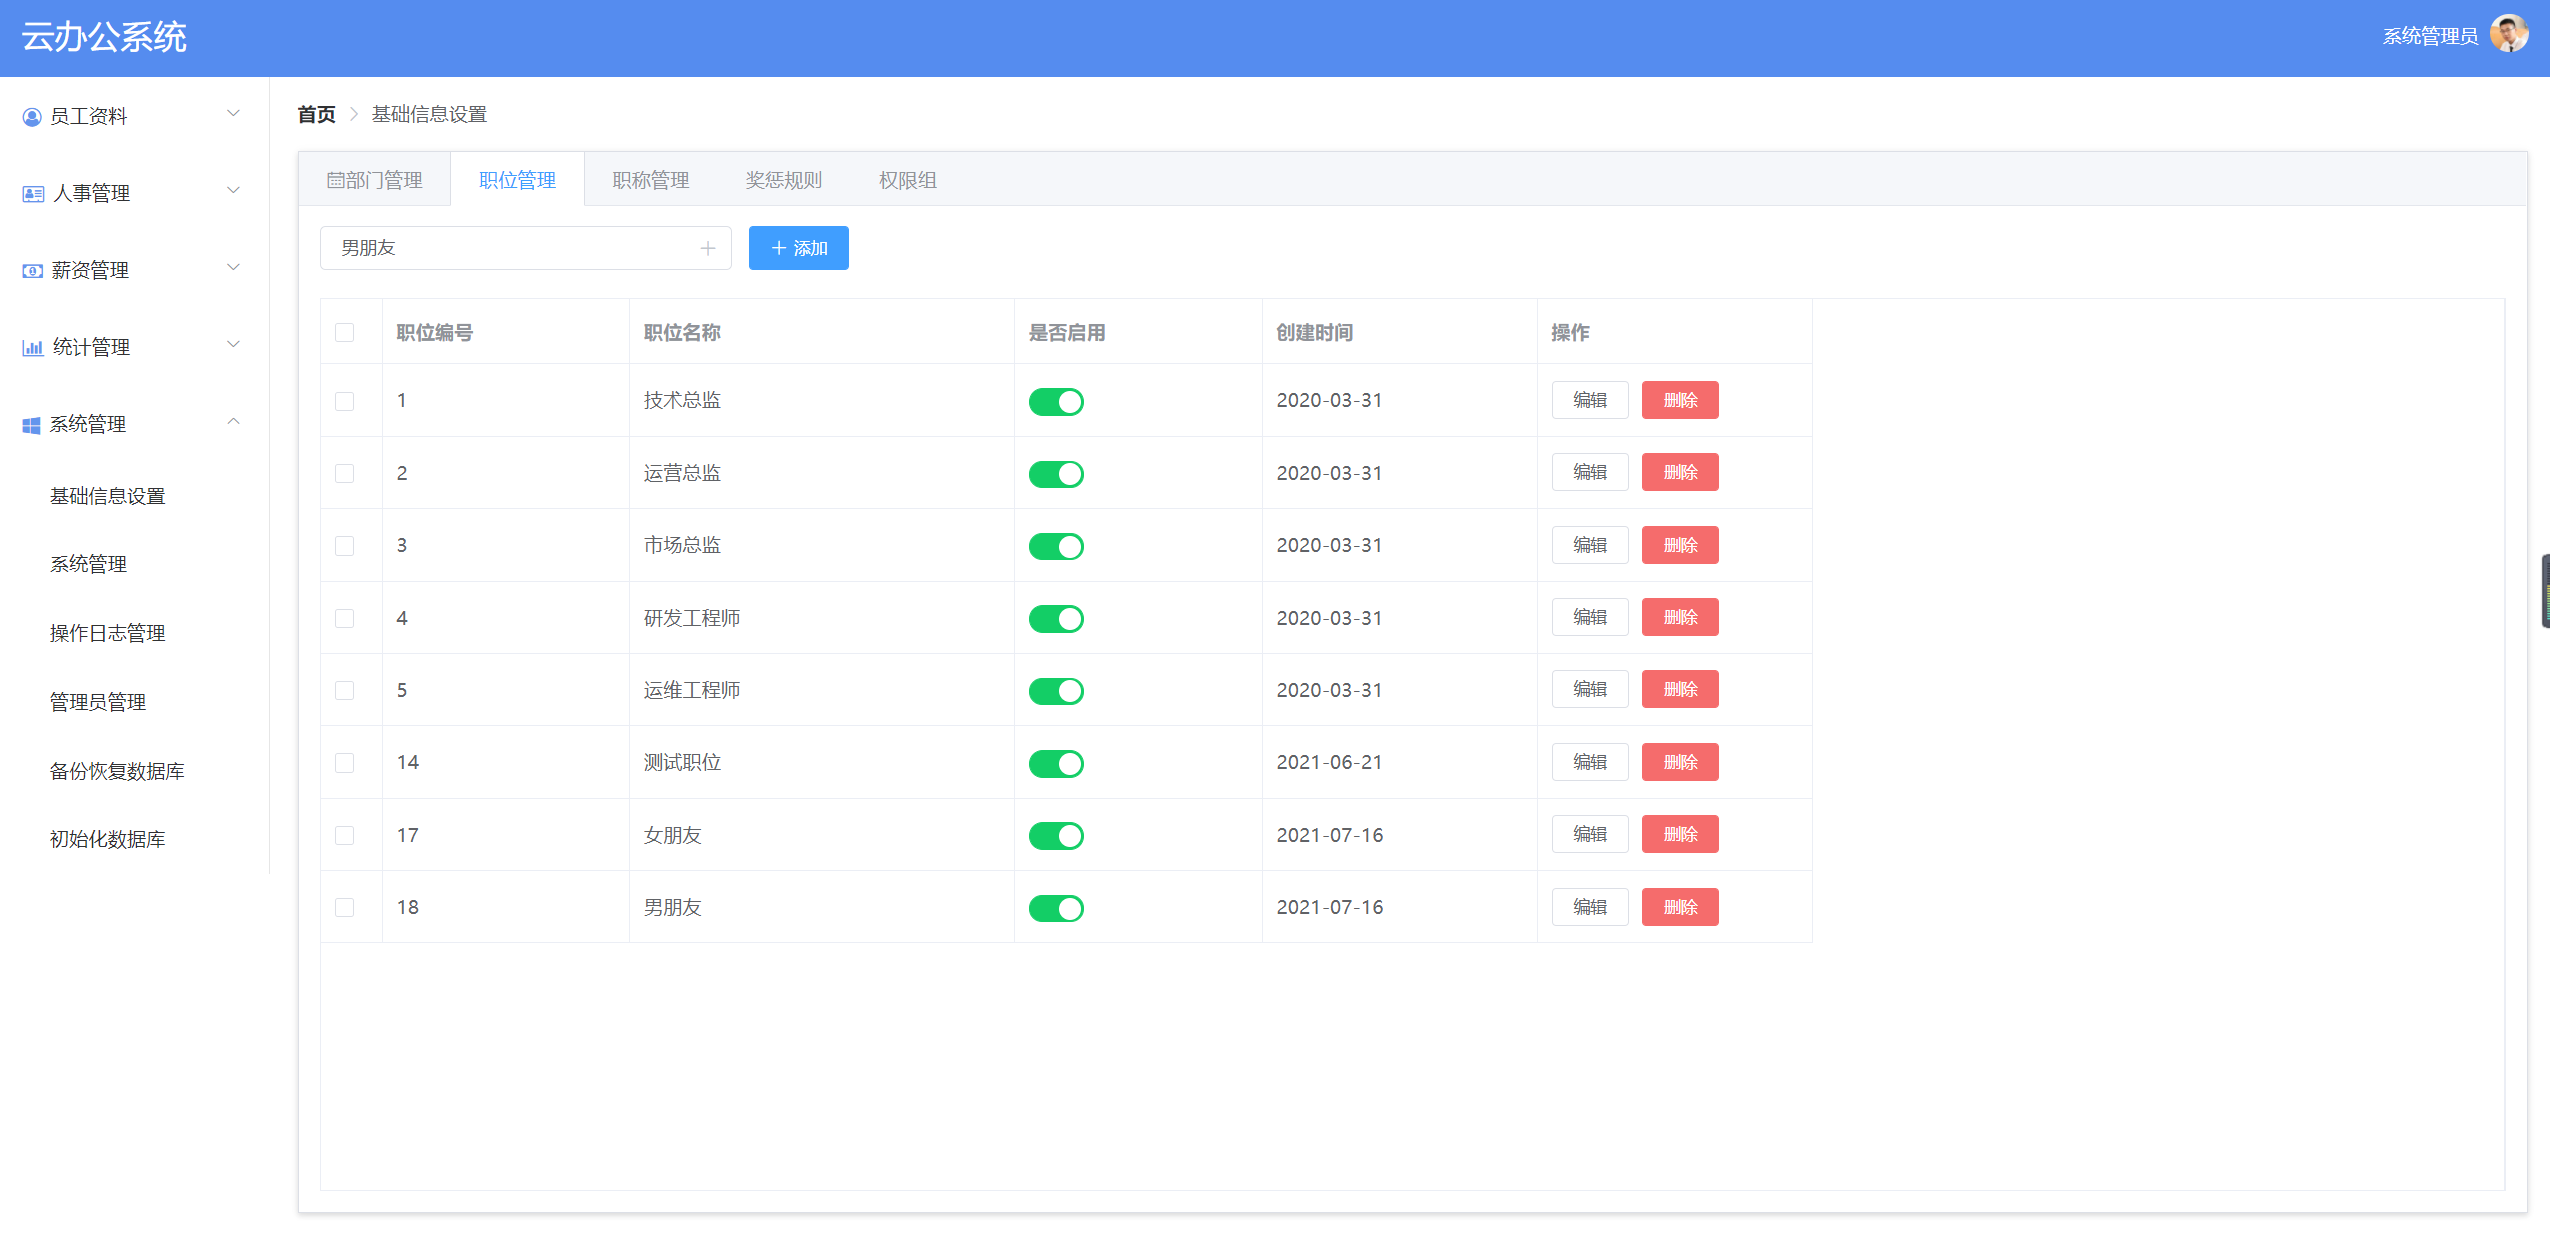
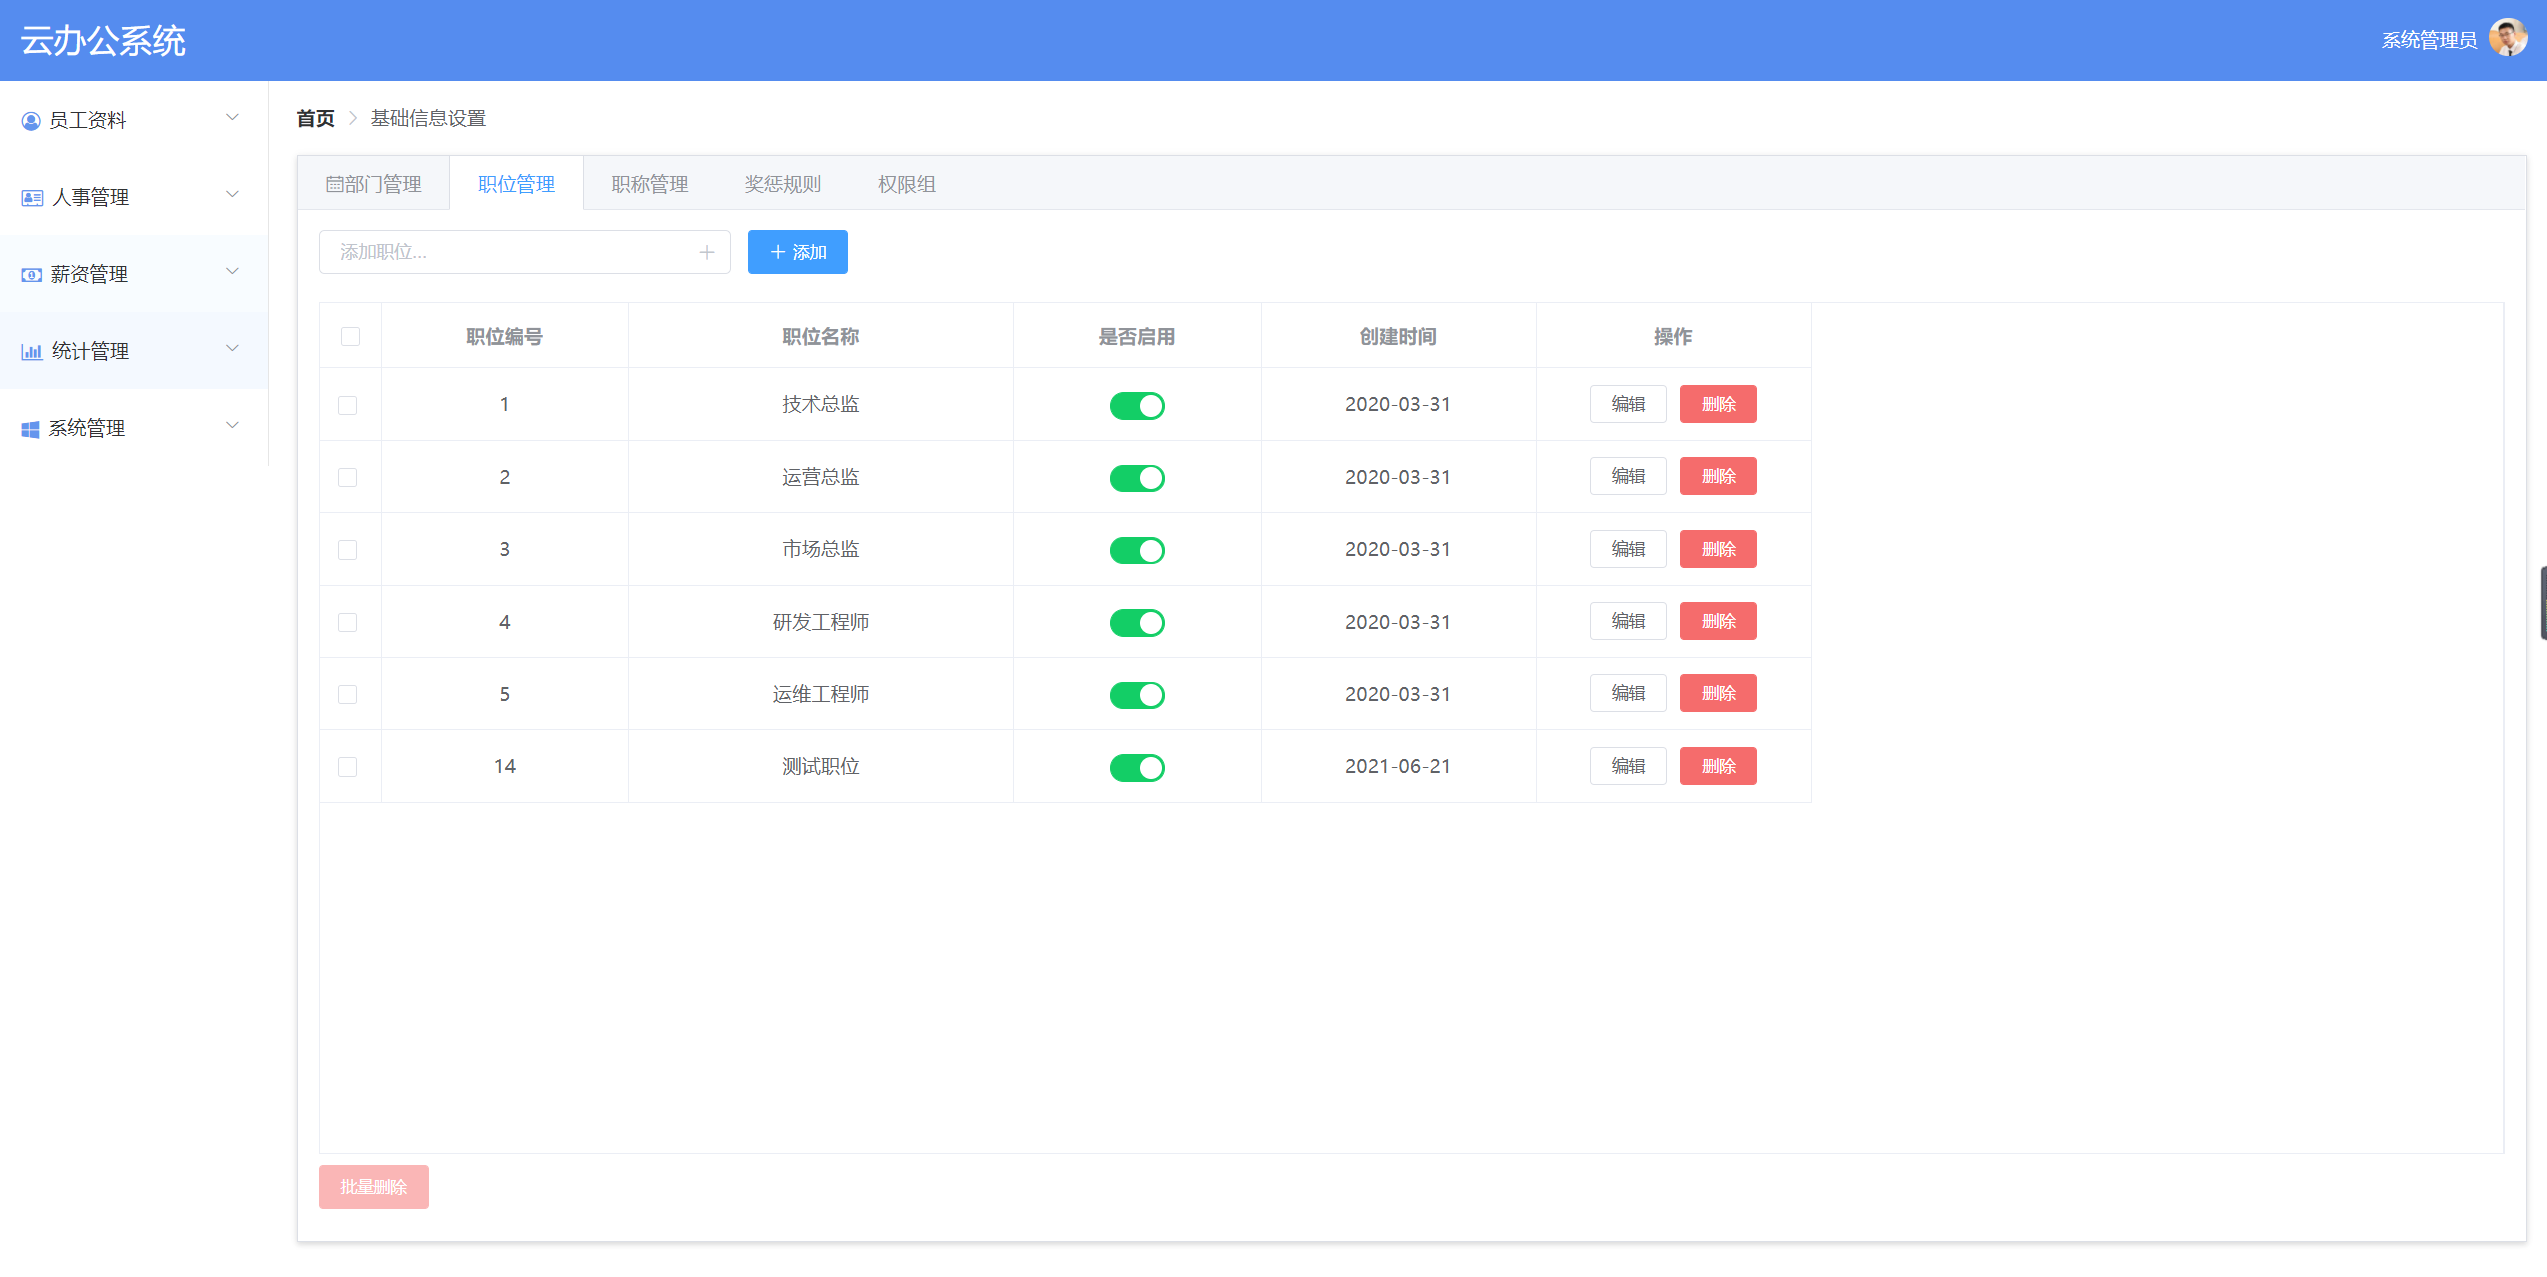
职位管理功能实现：编辑职位、删除职位、批量删除职位，表格数据居中

diff --git a/yeb-ui/src/components/sys/basic/PosManage.vue b/yeb-ui/src/components/sys/basic/PosManage.vue
@@ -8,15 +8,18 @@
           suffix-icon="el-icon-plus"
           v-model="positionInputValue.name">
       </el-input>
+    <!--添加按钮-->
       <el-button size="small" icon="el-icon-plus" type="primary" @click="addPosition">添加</el-button>
     </div>
     <!--表格数据-->
     <div class="positionData">
       <el-table
           :data="tableData"
-          height="650"
+          height="620"
           border
           style="width: 100%"
+          :header-cell-style="cellStyle"
+          :cell-style="cellHeaderStyle"
           @selection-change="handleSelectPositions">
         <el-table-column
             type="selection"
@@ -55,7 +58,7 @@
           <template slot-scope="scope">
             <el-button
                 size="mini"
-                @click="handleEdit(scope.row.id, scope.row)">编辑</el-button>
+                @click="showEditDialog(scope.row.id, scope.row)">编辑</el-button>
             <el-button
                 size="mini"
                 type="danger"
@@ -64,20 +67,46 @@
         </el-table-column>
       </el-table>
     </div>
+    <el-button class="batchDeleteButton" size="small" type="danger" @click="batchDeletion" :disabled="selectedPosition.length === 0">批量删除</el-button>
+    <el-dialog
+        title="编辑职位"
+        :visible.sync="editDialogVisible"
+        width="30%"
+        :before-close="handleEditClose">
+      <div>
+        <el-form :model="editForm">
+          <el-form-item label="职位名称" label-width="120px">
+            <el-input v-model="editForm.name" size="small" class="editNameInput"></el-input>
+          </el-form-item>
+        </el-form>
+      </div>
+      <span slot="footer" class="dialog-footer">
+        <el-button size="small" @click="editDialogVisible = false">取 消</el-button>
+        <el-button size="small" type="primary" @click="handlerEdit">确 定</el-button>
+      </span>
+    </el-dialog>
   </div>
 </template>
 
 <script>
-
 export default {
   name: "PosManage",
   data(){
     return {
+      // 添加职称名称
       positionInputValue: {
         name: ''
       },
+      // 原始数据
       tableData: [],
-      selectedPosition: []
+      // 多选
+      selectedPosition: [],
+      // 展示更新对话框
+      editDialogVisible: false,
+      // 编辑数据：职位名称
+      editForm: { name: '' },
+      // 更改是否禁用
+      changeEnableValue: { enabled: ''}
     }
   },
   methods: {
@@ -101,22 +130,91 @@ export default {
         this.$message.error('请输入要添加的职位名称！')
       }
     },
-    // 编辑
-    handleEdit(index, row) {
-      console.log(index, row);
+    // 编辑框展示
+    showEditDialog(index, row) {
+      // 对象复制，呈现到表单
+      Object.assign(this.editForm, row)
+      this.editForm.createDate = ''
+      this.editDialogVisible = true
+    },
+    // 更新数据
+    handlerEdit(){
+      if(this.editForm.name){
+        this.putRequest('/system/basic/pos/', this.editForm).then(resp => {
+          if(resp && resp.code === 200){
+            this.initPositions();
+            this.editDialogVisible = false
+          }
+        })
+      } else {
+        this.$message.error('请输入要更新的职位名称！')
+      }
+    },
+    // 编辑框关闭
+    handleEditClose(done){
+      this.$confirm('确认关闭？')
+          .then(_ => {
+            done();
+          })
+          .catch(_ => {});
     },
     // 删除
     handleDelete(index, row) {
-      console.log(index, row);
+      this.$confirm('此操作将永久删除该【'+row.name+'】, 是否继续?', '提示', {
+        confirmButtonText: '确定',
+        cancelButtonText: '取消',
+        type: 'warning'
+      }).then(() => {
+        this.deleteRequest('/system/basic/pos/' + row.id).then(resp => {
+          if(resp && resp.code === 200){
+            this.initPositions();
+          }
+        })
+      }).catch(() => {
+        this.$message({
+          type: 'info',
+          message: '已取消删除'
+        });
+      });
     },
     // 禁用
     changeEnabled(row) {
-      console.log(row);
+      Object.assign(this.changeEnableValue, row)
+      this.changeEnableValue.createDate = ''
+      this.put('/system/basic/pos/', this.changeEnableValue)
     },
     // 多选
     handleSelectPositions(selectedIndex){
       this.selectedPosition = selectedIndex
-      console.log(this.selectedPosition)
+    },
+    // 批量删除
+    batchDeletion(){
+      this.$confirm('此操作将永久删除【'+this.selectedPosition.length+'】条数据, 是否继续?', '提示', {
+        confirmButtonText: '确定',
+        cancelButtonText: '取消',
+        type: 'warning'
+      }).then(() => {
+        let ids = ''
+        this.selectedPosition.forEach(item => ids += 'ids=' + item.id + '&');
+        this.deleteRequest('/system/basic/pos/?' + ids.substring(0, ids.length - 1)).then(resp => {
+          if(resp && resp.code === 200){
+            this.initPositions();
+          }
+        })
+      }).catch(() => {
+        this.$message({
+          type: 'info',
+          message: '已取消删除'
+        });
+      });
+    },
+    // 表格内容居中
+    cellStyle(){
+      return 'text-align: center;'
+    },
+    // 表格头部居中
+    cellHeaderStyle(){
+      return 'text-align: center;'
     }
   },
   mounted() {
@@ -136,5 +234,12 @@ export default {
 }
 .positionData {
   margin-top: 20px;
+}
+.editNameInput {
+  width: 200px;
+}
+.batchDeleteButton {
+  margin-top: 8px;
+  margin-bottom: 8px;
 }
 </style>

diff --git a/yeb-server/src/main/java/org/feng/server/config/pattern/TemplateMethodController.java b/yeb-server/src/main/java/org/feng/server/config/pattern/TemplateMethodController.java
@@ -97,7 +97,6 @@ public abstract class TemplateMethodController<T> {
         initService();
         try {
             beforeDeletes(ids);
-            delete(ids);
             if(service.removeByIds(Arrays.asList(ids))){
                 afterDeletes(ids);
                 return ResponseBean.success(Consts.DELETE_SUCCESS);

diff --git a/readme.md b/readme.md
@@ -1,4 +1,5 @@
-# 云办管理平台
+云办管理平台
+
 ## 1. 项目简介
 ### 1.1 项目简介
 
@@ -118,10 +119,15 @@ npm install webpack webpack-cli -g
 ```
 
 ### 5.2 基础信息管理-职位管理
-#### 5.2.1
 + 添加职位
 + 查询职位
++ 修改启用状态
++ 编辑职位
++ 删除&批量删除职位
+
 <img src="img/pic4.png">
+
+<img src="img/pic5.png">
 
 
 ## 6. 部分截图
